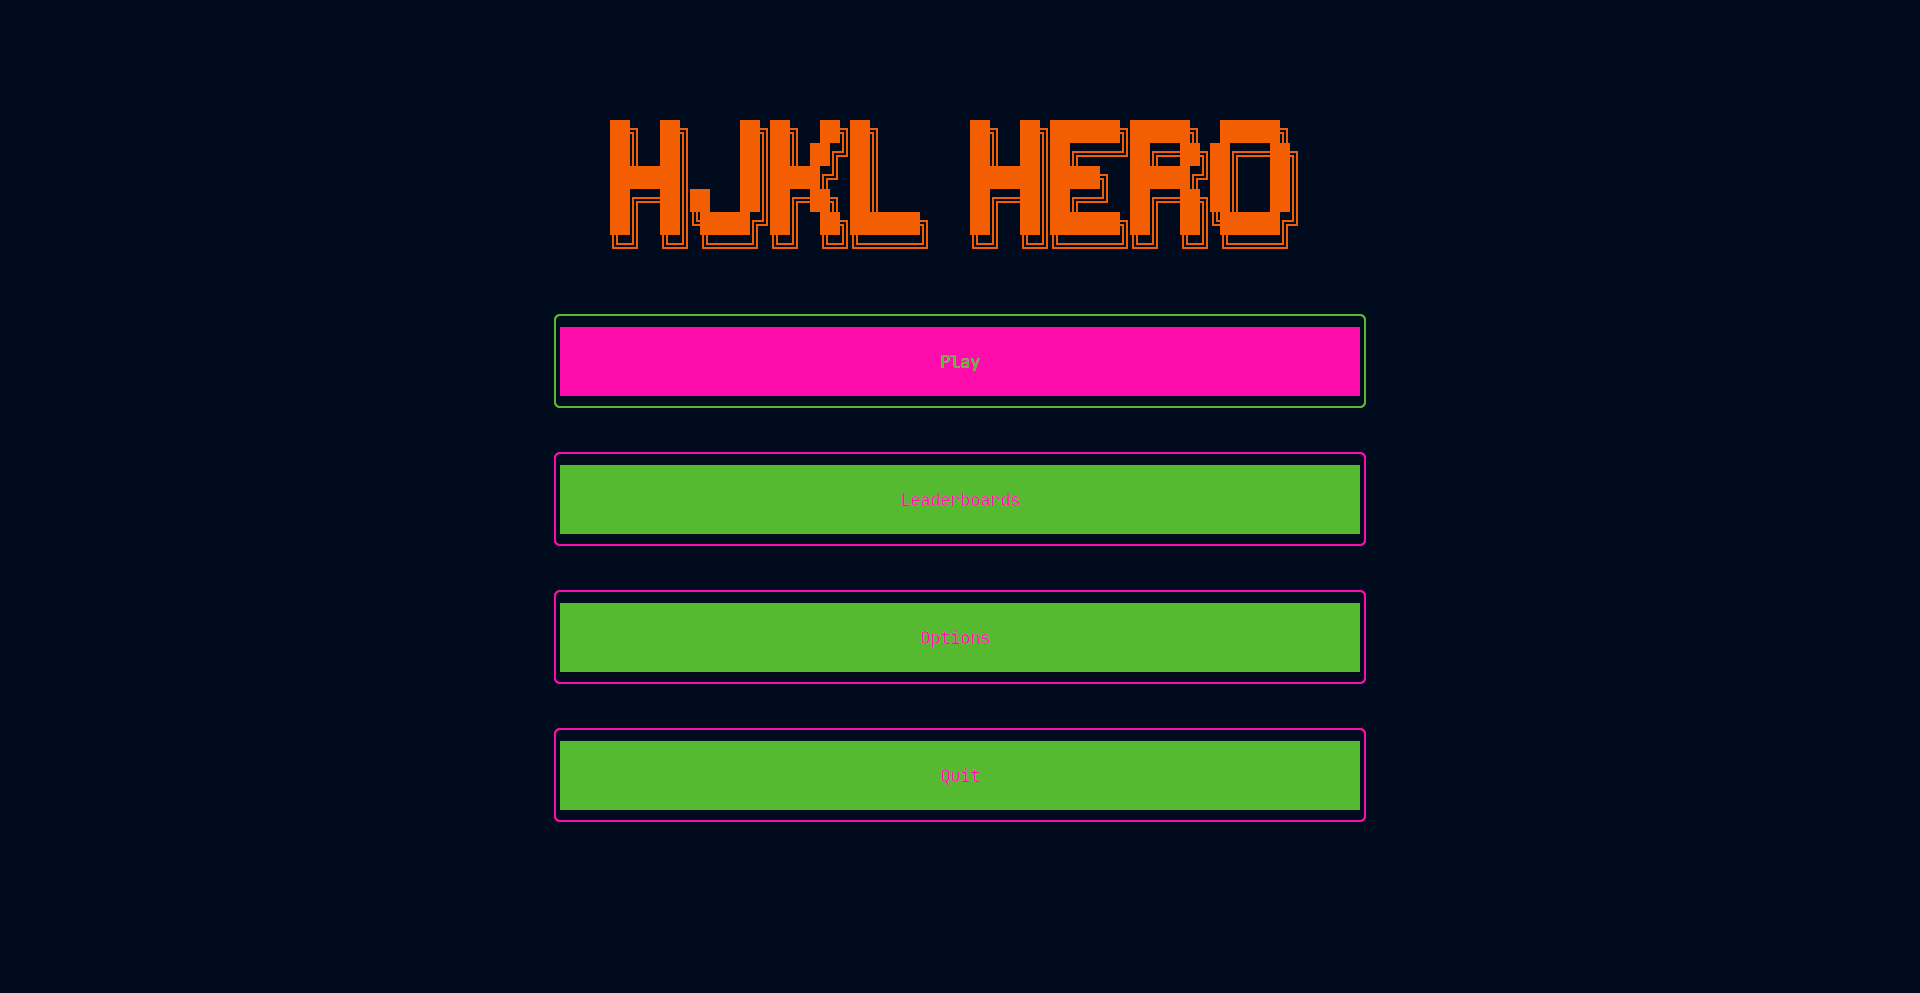
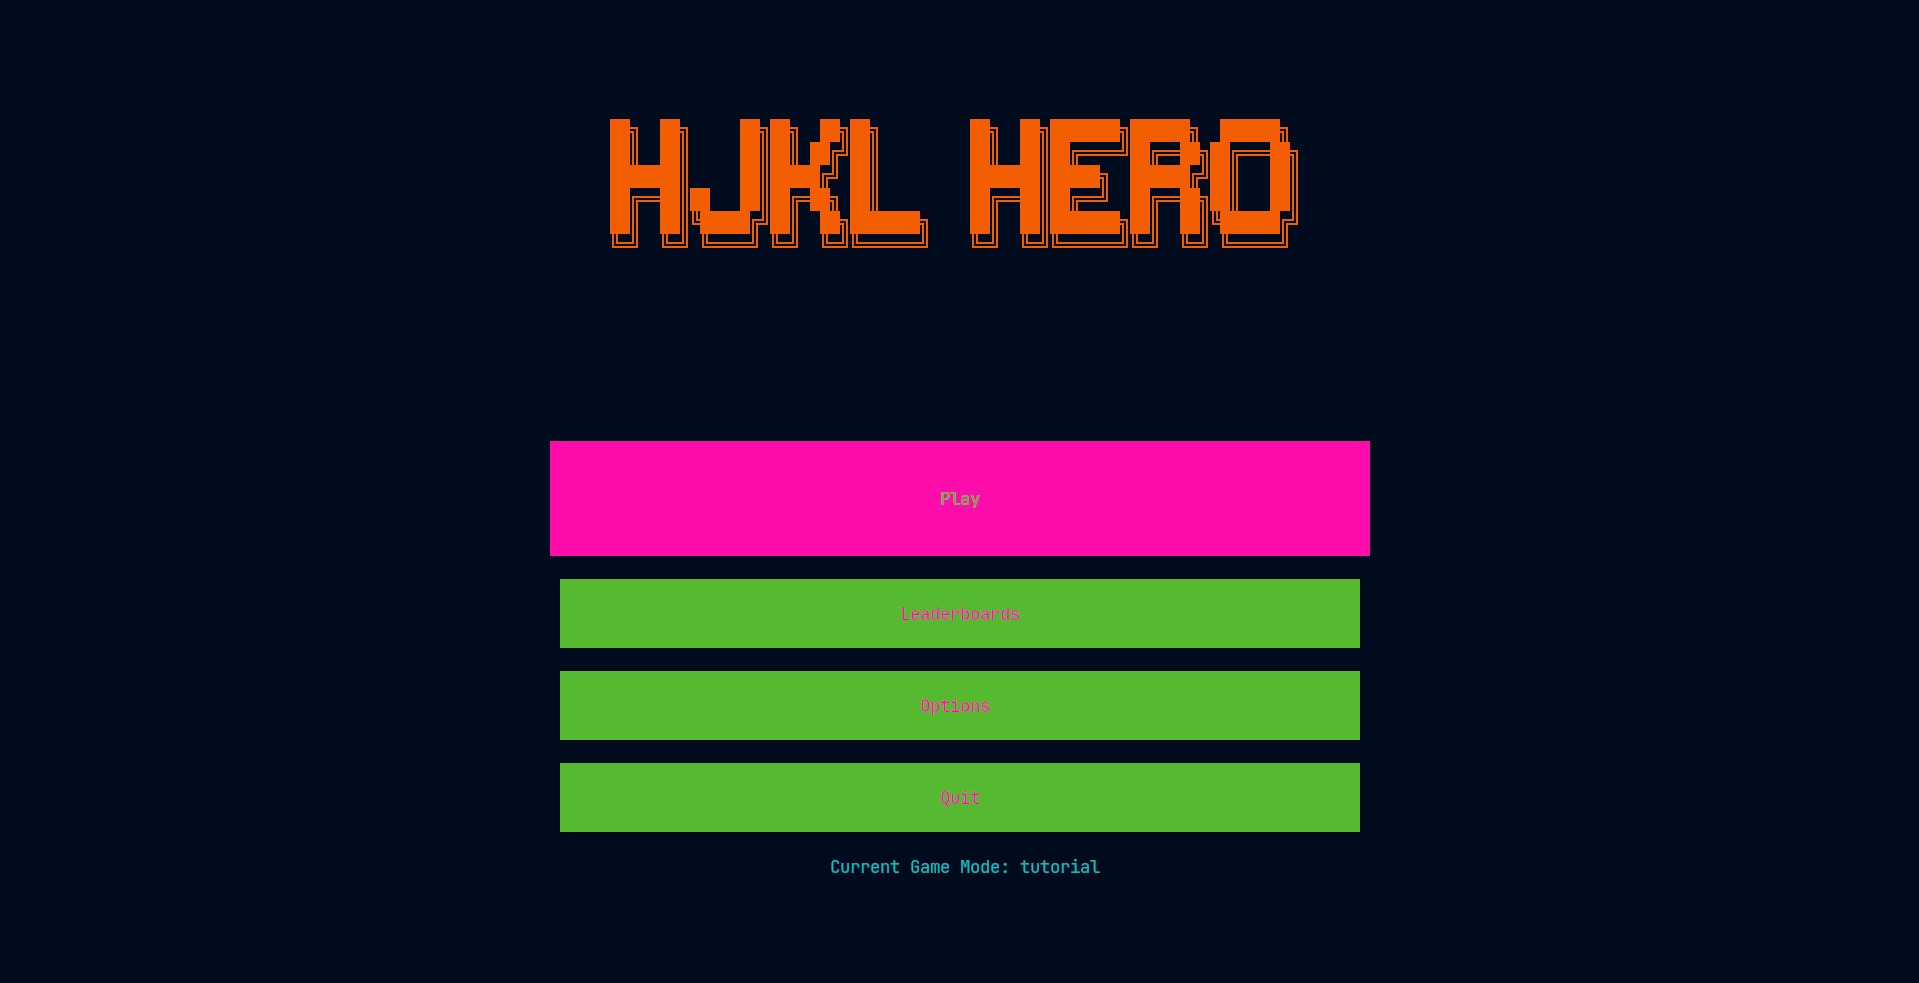
"update readme with new screenshots"

Changed region(s): [[0.2767, 0.3052, 0.7379, 0.885], [0.3075, 0.1221, 0.6764, 0.2747]]

diff --git a/README.md b/README.md
@@ -10,6 +10,8 @@ A terminal based Vim motion game.
 
 ![Rogue Mode Example](screenshots/RogueMode.png)
 
+![Theme Editor](screenshots/ThemeEditor.png)
+
 ## Motivation
 
 I started playing around with Vim motions and saw there were games and tutorials but they were either too slow to get to the point or simply were too easy, so I thought
